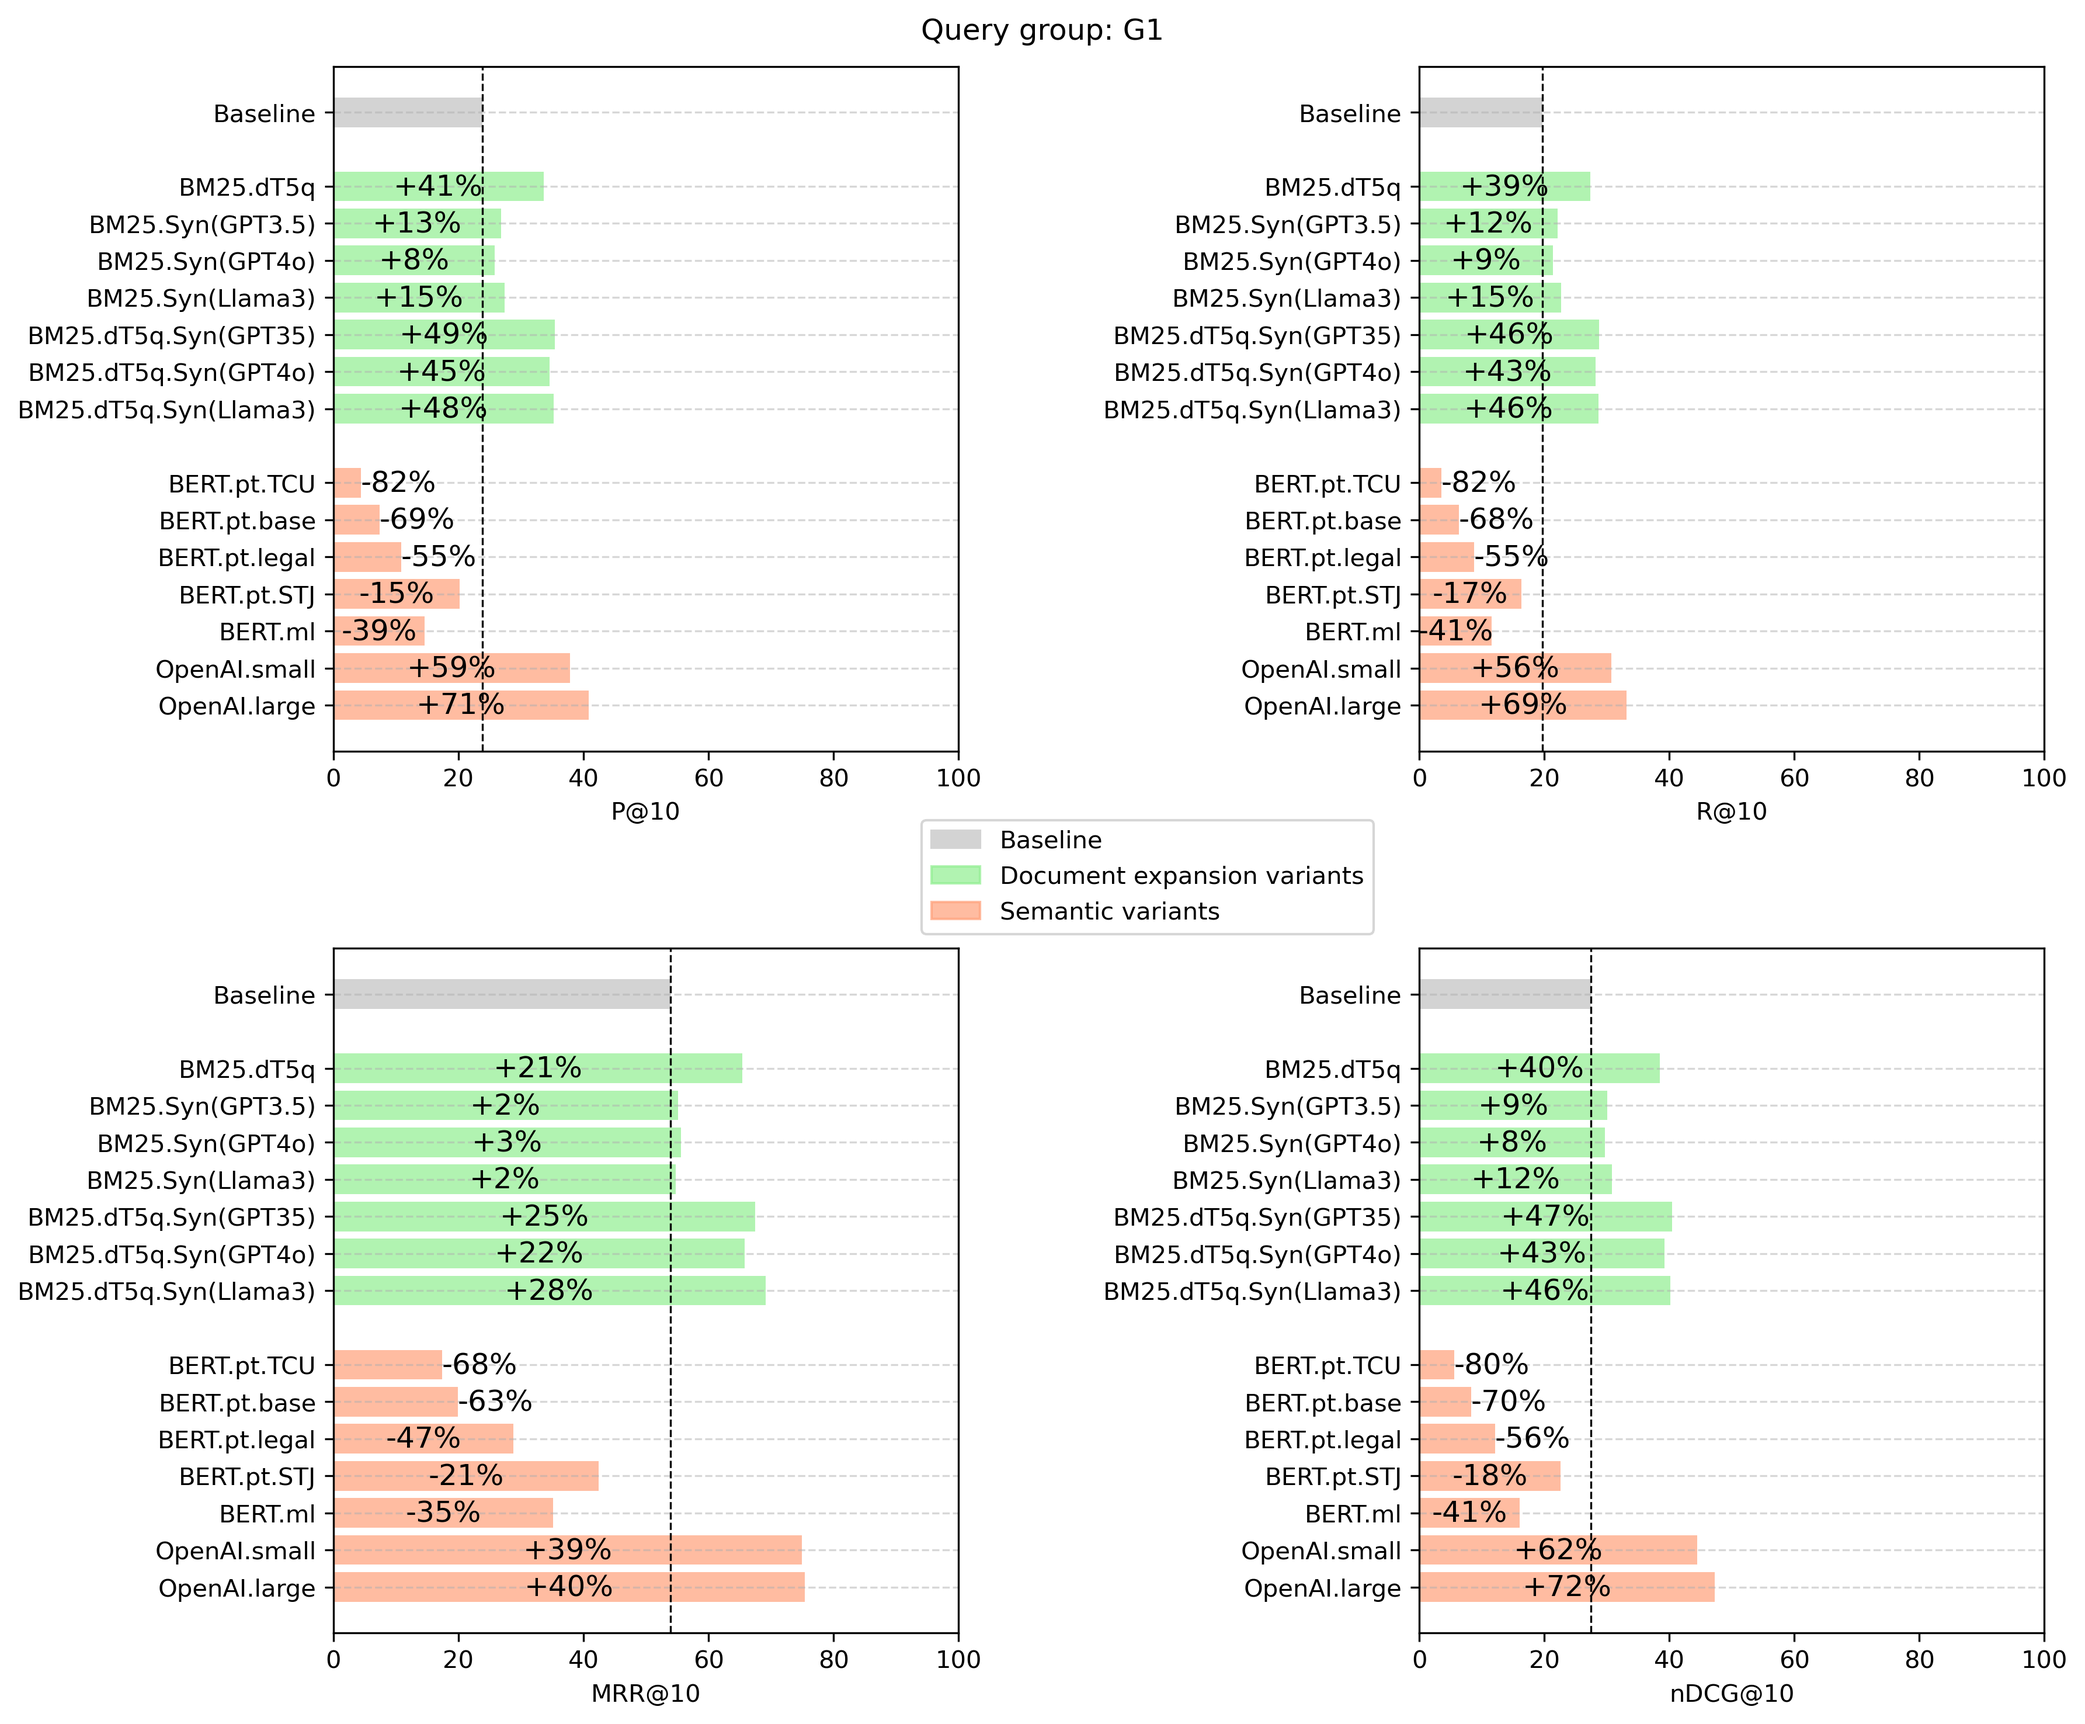
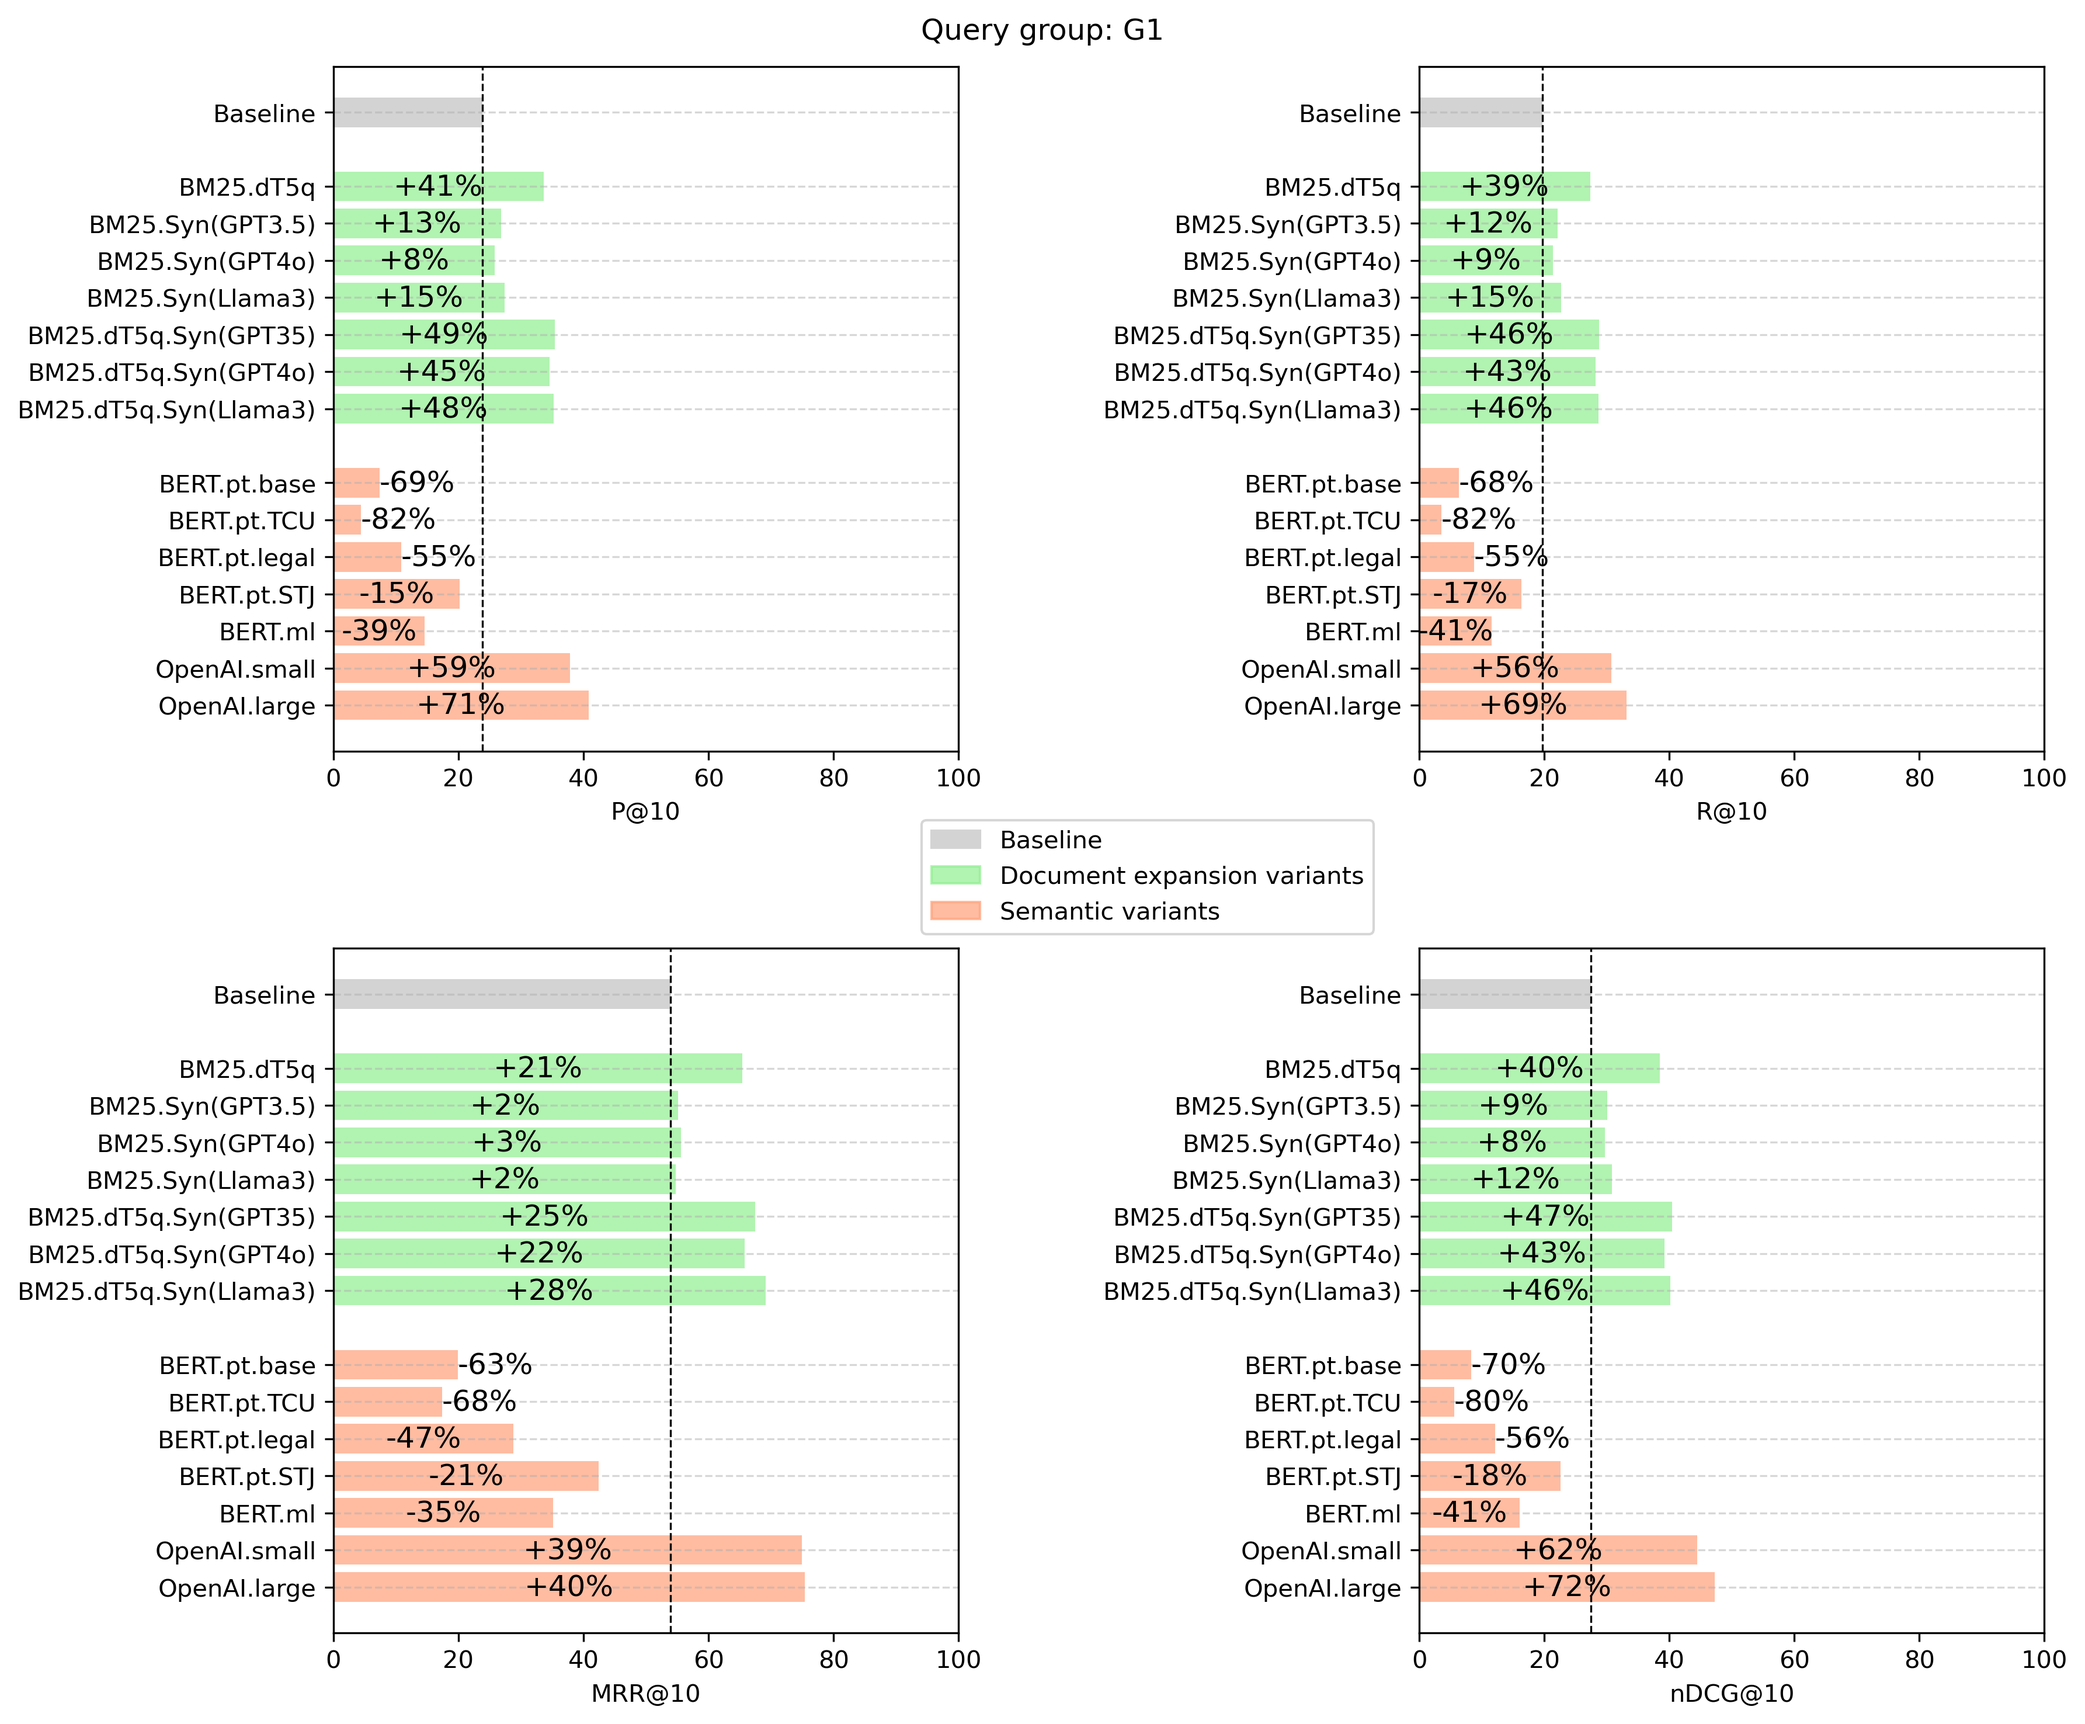
Altera ordem das métricas

diff --git a/codigo/related/juristcu-metricas-barravertical.py b/codigo/related/juristcu-metricas-barravertical.py
@@ -9,7 +9,8 @@ import pandas as pd
 ordem_expansao_doc = ["BM25.dT5q",
                       "BM25.Syn(GPT3.5)", "BM25.Syn(GPT4o)", "BM25.Syn(Llama3)",
                       "BM25.dT5q.Syn(GPT35)", "BM25.dT5q.Syn(GPT4o)", "BM25.dT5q.Syn(Llama3)"]
-ordem_semantico = ["BERT.pt.TCU", "BERT.pt.base", "BERT.pt.legal", "BERT.pt.STJ",
+ordem_semantico = ["BERT.pt.base",
+                   "BERT.pt.TCU", "BERT.pt.legal", "BERT.pt.STJ",
                    "BERT.ml",
                    "OpenAI.small", "OpenAI.large"]
 
@@ -26,8 +27,8 @@ metricas_g1 = {
         "BM25.dT5q.Syn(Llama3)": [35.2, 28.7, 69.1, 40.2]
         },
     "semantico": {
-        "BERT.pt.TCU"          : [4.4 , 3.5 , 17.4, 5.6 ],
         "BERT.pt.base"         : [7.4 , 6.3 , 19.9, 8.3 ],
+        "BERT.pt.TCU"          : [4.4 , 3.5 , 17.4, 5.6 ],
         "BERT.pt.legal"        : [10.8, 8.8 , 28.8, 12.1],
         "BERT.pt.STJ"          : [20.2, 16.3, 42.4, 22.6],
         "BERT.ml"              : [14.6, 11.6, 35.1, 16.1],
@@ -103,8 +104,6 @@ def plot_metricas(grupo, calcular_percentual=True, salvar_figura=False, baseline
     fig.suptitle(f"Query group: G{grupo}")
 
     mapa = plt.cm.get_cmap("tab10", 20)
-    #colors = {"BM25 Variants": colors(0), "BERT Variants": colors(1)}
-    #0055FFFF, #3399FFFF, #66CCFFFF, #99EEFFFF, #CCFFFFFF, #FFFFCCFF, #FFEE99FF, #FFCC66FF, #FF9933FF, #FF5500FF
     colors = {
         "baseline": "lightgray",
         "expansao_doc": "lightgreen",
